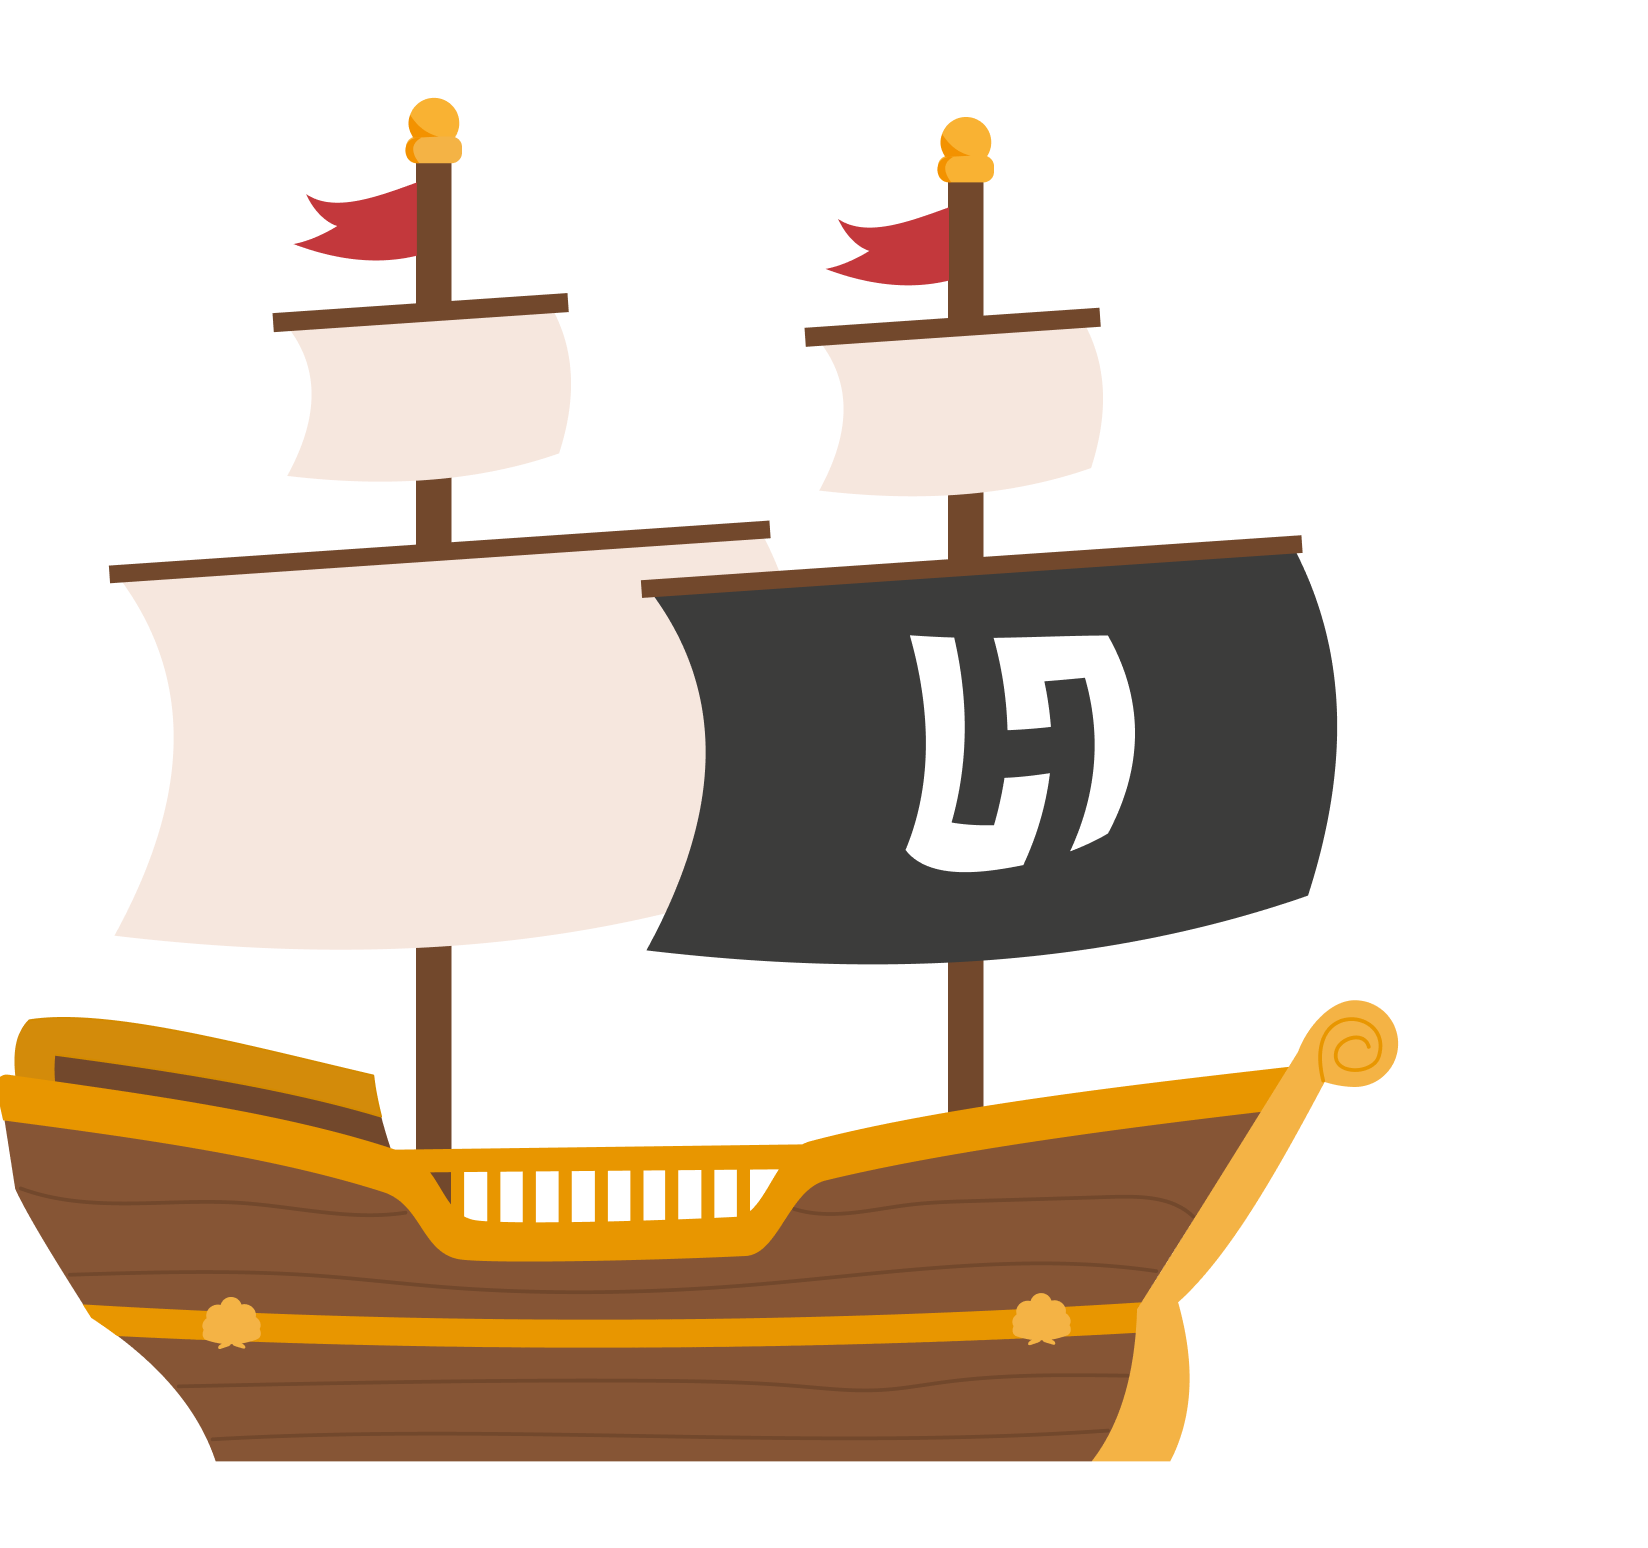
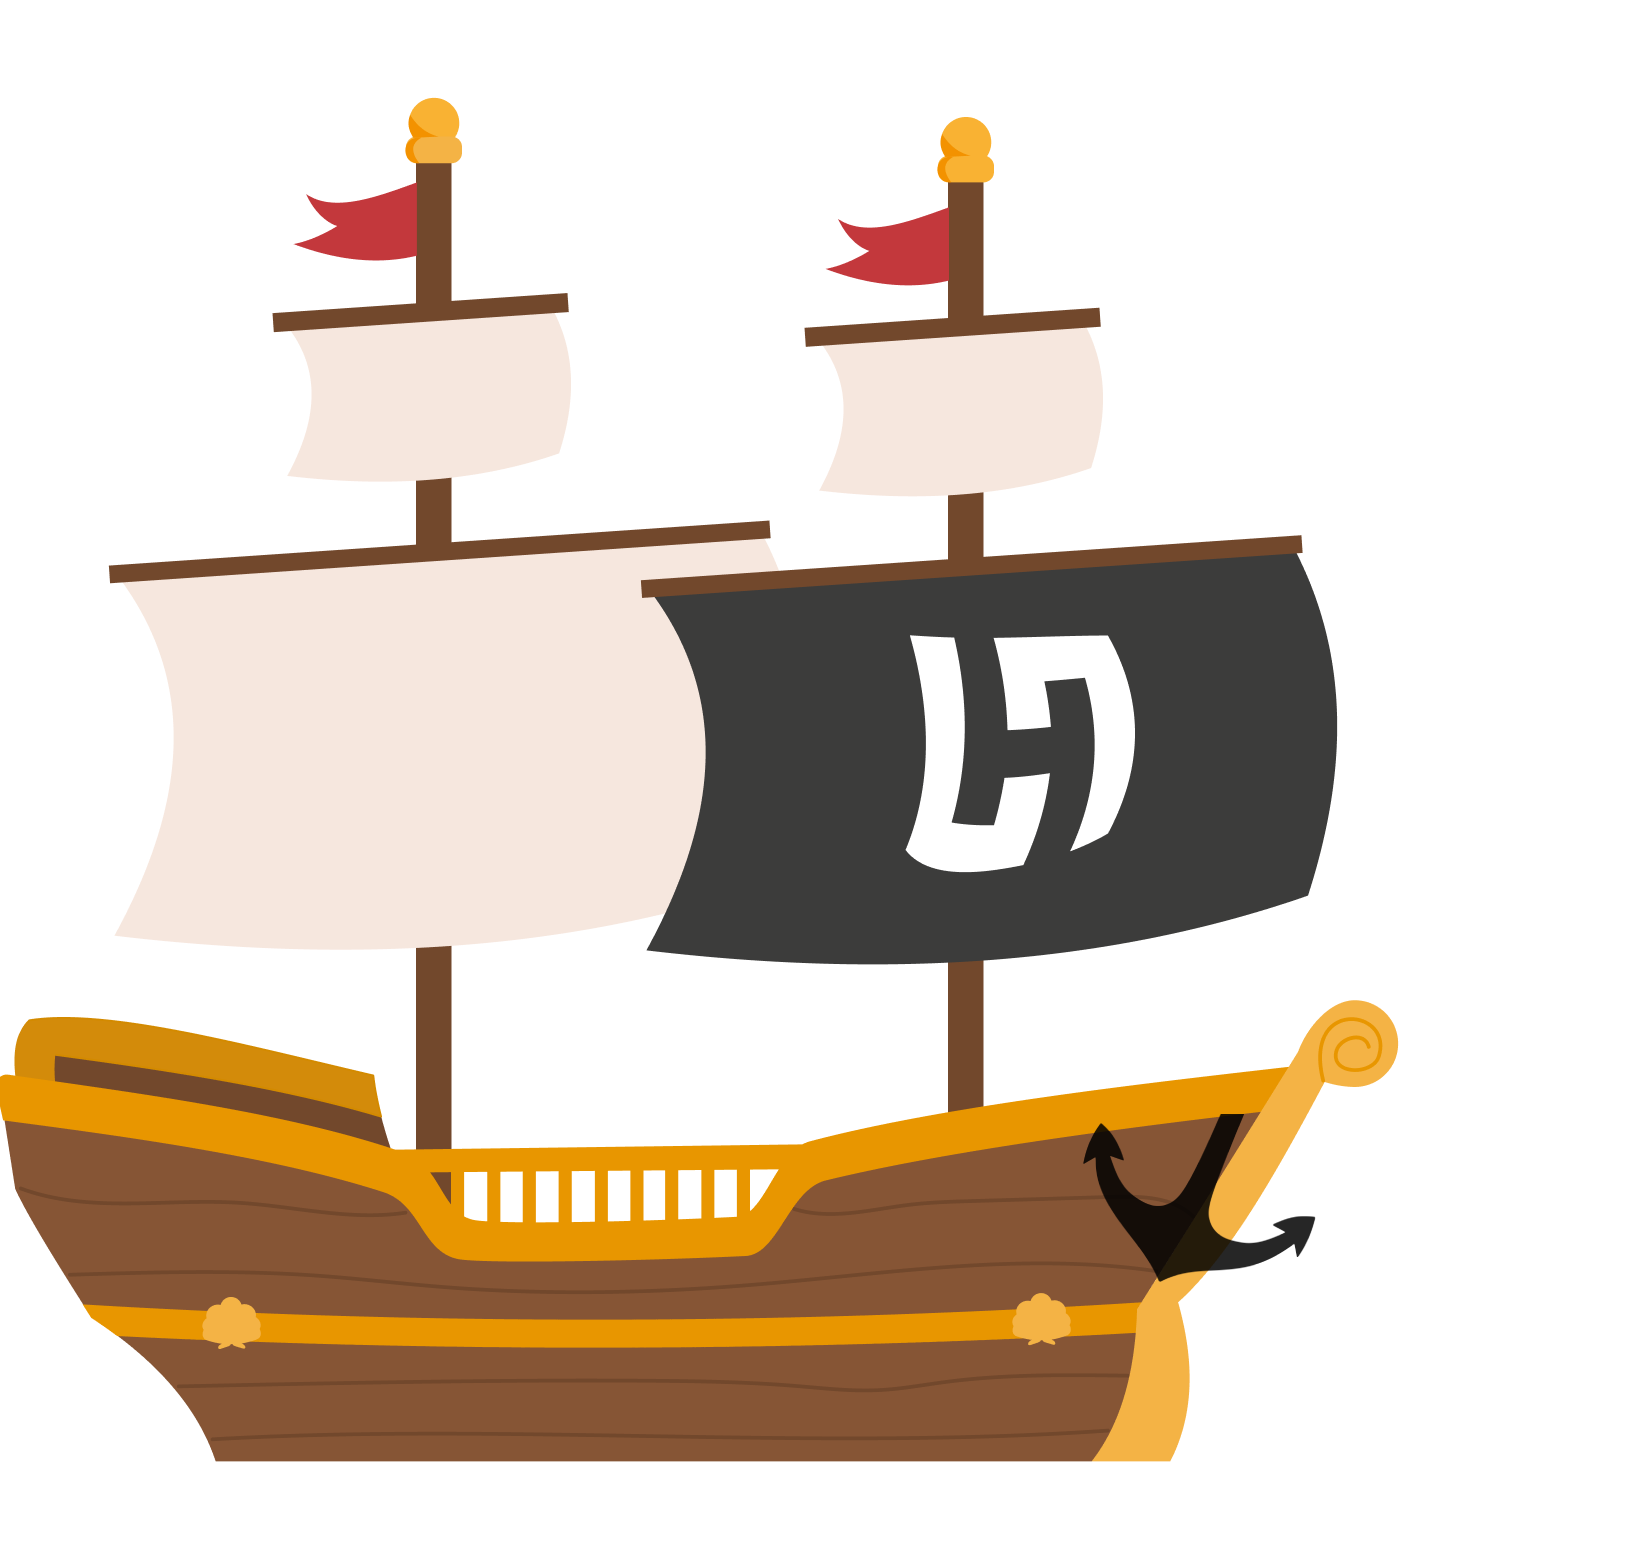
Animation without aleatory starts
It's almost done. Next idea to add is to include starts that would appear on the screen in random locations of the screen
? Needs to configure localStorage
? Needs to configure phone detection to avoid that animation on phone.
? Make button works

Changed region(s): [[0.6808, 0.7132, 0.8046, 0.8372], [0.6499, 0.7132, 0.6808, 0.7752]]

diff --git a/src/components/hackeps/Home/HeroSection/Hero2.js b/src/components/hackeps/Home/HeroSection/Hero2.js
@@ -2,9 +2,19 @@ import React, {useState, useEffect, useRef} from 'react'
 import gsap from 'gsap'
 import { useGSAP } from '@gsap/react'
 import burbujas from 'src/assets/img/burbujas.png'
+import anclaCadena from 'src/assets/img/cadenalarga.png'
+import sirena from 'src/assets/img/sirenapiedra.png'
+import logoHackeps from 'src/assets/img/logoHackeps2025.png'
+import cartell from 'src/assets/img/cartellPowered.png'
+import CountdownTimer from "src/components/hackeps/Home/Timer.js";
+import Button from "src/components/buttons/Button";
+import peix1 from 'src/assets/img/fish1.png'
+import peix2 from 'src/assets/img/fish2 invert.png'
+import peix3 from 'src/assets/img/fish3.png'
+import peix4 from 'src/assets/img/fish4 invert.png'
 
 
-const Hero2 = ({completed=false}) => {
+const Hero2 = ({completed=false, initialDate, finalDate, activeTimer}) => {
     const [ensureAnimations, setEnsureAnimations] = useState(true);
     const bubble1 = useRef(null);
     const bubble2 = useRef(null);
@@ -12,15 +22,172 @@ const Hero2 = ({completed=false}) => {
     const bubble4 = useRef(null);
     const bubble5 = useRef(null);
 
+    const fish1 = useRef(null);
+    const fish2 = useRef(null);
+    const fish3 = useRef(null);
+    const fish4 = useRef(null);
+    const fish5 = useRef(null);
+
+    const cadena = useRef(null);
+    const cartellet = useRef(null);
+    const sirenaPiedra = useRef(null);
+    const logoHackeps2025 = useRef(null);
+    const [startDate, setStartDate] = useState(initialDate);
+        const [endDate, setEndDate] = useState(finalDate);
+        const [timerActive, setTimerActive] = useState(activeTimer);
+        
+        useEffect(() => {
+            setStartDate(initialDate);
+            setEndDate(finalDate);
+            setTimerActive(activeTimer);
+            
+        }, [initialDate, finalDate, activeTimer]);
+
    useGSAP(() => {
         if (ensureAnimations) {
             const bubbles = [bubble1, bubble2, bubble3, bubble4, bubble5];
+            const fishes = [fish1, fish2, fish3, fish4, fish5];
+            const animateBubblesLoop = () => {
+                    // Cantidad de burbujas aleatoria entre 1 y 5
+                    const count = Math.floor(Math.random() * bubbles.length) + 1;
 
-            const animateBubbles = () => {
+                    // Elegir burbujas aleatorias sin repetir
+                    const selected = gsap.utils.shuffle([...bubbles]).slice(0, count);
+
+                    const tlBubbles = gsap.timeline({
+                        onComplete: () => {
+                            // Reset después de que terminen todas
+                            gsap.set(bubbles.map(b => b.current), { y: '50vh', scale: 1 });
+                            // Llama de nuevo para repetir
+                            if (ensureAnimations) animateBubblesLoop();
+                        }
+                    });
+
+                    selected.forEach((bubbleRef, i) => {
+                        tlBubbles.to(bubbleRef.current, {
+                            y: '-70vh',
+                            scale: gsap.utils.random(0.5, 1),
+                            duration: gsap.utils.random(6, 7),
+                            ease: 'linear',
+                            delay: gsap.utils.random(0, 1),
+                        }, i === 0 ? undefined : '<');
+                    });
+                };
+            
+            const animateFishLoop = () => {
+                // Cantidad de peces aleatoria entre 2 y 5 (mínimo 2)
+                const count = Math.floor(Math.random() * (fishes.length - 1)) + 2;
+
+                // Elegir peces aleatorios sin repetir
+                const selected = gsap.utils.shuffle([...fishes]).slice(0, count);
+
+                const tlFish = gsap.timeline({
+                    onComplete: () => {
+                        // Reset después de que terminen todas
+                        gsap.set(fishes.map(f => f.current), { x: '-10vw', scale: 1 });
+                        // Llama de nuevo para repetir
+                        if (ensureAnimations) animateFishLoop();
+                    }
+                });
+
+                selected.forEach((fishRef, i) => {
+                    // Animar de izquierda (-10vw) a derecha (110vw)
+                    gsap.set(fishRef.current, { x: '-10vw', y: 0, scale: gsap.utils.random(0.8, 1.2) });
+                    tlFish.to(fishRef.current, {
+                        x: '110vw',
+                        duration: gsap.utils.random(7, 10),
+                        ease: 'linear',
+                        delay: gsap.utils.random(0, 1),
+                    }, i === 0 ? undefined : '<');
+                });
+            }
+
+            const animateBubblesAndPhishLoop = () => {
+                if (ensureAnimations) { 
+                    animateBubblesLoop()
+                    animateFishLoop()
+                };
+            };
+
+            const animateElements = () => {
+                
                 const tl = gsap.timeline({
                     onComplete: () => {
-                        if (ensureAnimations) {
-                            animateBubbles();
+                        if (ensureAnimations && cadena.current) {
+                            gsap.to(cadena.current, {
+                                y: "-30%",
+                                duration: 2,
+                                ease: "power1.inOut",
+                                onComplete: () => {
+                                    gsap.to(cadena.current, {
+                                        y: "-5%",
+                                        rotation: 5,
+                                        duration: 15,
+                                        yoyo: false,
+                                        ease: "sine.inOut"
+                                        // No más animaciones ni reset, se queda en la posición final
+                                    });
+                                }
+                            });
+                            animateBubblesAndPhishLoop();
+                            if (cartellet.current) {
+                                // Subir el cartel al centro y hacer movimiento similar al ancla
+                                gsap.to(cartellet.current, {
+                                    delay: 1.4, // Pequeño delay para desincronizar con la cadena
+                                    y: "-120%",
+                                    duration: 2,
+                                    ease: "power1.inOut",
+                                    onComplete: () => {
+                                        // Oscilación en el centro
+                                        gsap.to(cartellet.current, {
+                                            y: "-130%",
+                                            rotation: 5,
+                                            duration: 2,
+                                            ease: "sine.inOut",
+                                            yoyo: true,
+                                            repeat: 1,
+                                            onComplete: () => {
+                                                // Subir y desvanecer
+                                                gsap.to(cartellet.current, {
+                                                    y: "-250%",
+                                                    duration: 3,
+                                                    ease: "sine.inOut",
+                                                    onComplete: () => {
+                                                        // Subir la sirena suavemente tras desaparecer el cartel
+                                                        const sirenaEl = sirenaPiedra.current;
+                                                        if (sirenaEl) {
+                                                            // Subir la sirena suavemente
+                                                            gsap.to(sirenaEl, {
+                                                                y: "-20%",
+                                                                duration: 3.5,
+                                                                ease: "sine.inOut"
+                                                            });
+                                                            // Cambiar opacidad del logo a 100 mientras la sirena sube
+                                                            if (logoHackeps2025.current) {
+                                                                // Asegúrate de quitar cualquier clase de Tailwind que fuerce opacity-0
+                                                                // En lugar de quitar la clase inmediatamente, espera a que la animación de opacidad comience
+                                                                // Asegúrate de que el logo esté oculto al principio
+                                                                gsap.set(logoHackeps2025.current, { opacity: 0 });
+                                                                // Quita la clase de Tailwind que fuerza opacity-0
+                                                                logoHackeps2025.current.classList.remove('opacity-0');
+                                                                // Anima la opacidad gradualmente a 1
+                                                                gsap.to(logoHackeps2025.current, {
+                                                                    opacity: 1,
+                                                                    duration: 3.5,
+                                                                    ease: "sine.inOut"
+                                                                });
+                                                            }
+                                                        }
+
+                                                    }
+                                                });
+                                            }
+                                        });
+                                    }
+                                });
+                            }
+
+
                         }
                     }
                 });
@@ -47,7 +214,7 @@ const Hero2 = ({completed=false}) => {
                 });
             };
 
-            animateBubbles();
+            animateElements();
         }
     }, [completed]);
 
@@ -62,7 +229,23 @@ const Hero2 = ({completed=false}) => {
         <div>
             <div className='bg-blueSea w-full h-[110vh] flex flex-row'>
                 <div className='col1 flex flex-row cartel w-1/3'>
-
+                    <img src={cartell} ref={cartellet} className="w-3/12 absolute bottom-0 left-[10%] transform translate-y-[70%]" alt="cartell" />
+                    <div className='opacity-0' ref={logoHackeps2025}>
+                        <img src={logoHackeps} className="w-[22%] absolute bottom-0 left-[20%] transform -translate-y-[80%] " alt="logoHackeps" />
+                        <div className='absolute top-[65%] left-[28%]'>
+                            <Button onClick={() => {}} className={"bg-red-500 text-white hover:bg-primaryHackeps duration-1 cursor-pointer"} outline>
+                                Descobreix més
+                            </Button>
+                        </div>
+                        
+                        <div className='countdown md:h-1/3 flex justify-start items-end absolute bottom-10 -left-[16%]'>
+                            <CountdownTimer
+                                startTime={startDate}
+                                endTime={endDate}
+                                timerActive={timerActive}
+                            />
+                    </div>
+                    </div>
                 </div>
                 <div className='col2 flex flex-row justify-end items-center align-middle w-1/3'>
                     <img src={burbujas} alt="Burbujas" className='w-28 transform translate-y-[50vh]' ref={bubble1} />
@@ -72,16 +255,19 @@ const Hero2 = ({completed=false}) => {
                     <img src={burbujas} alt="Burbujas" className='w-28 transform translate-y-[50vh]' ref={bubble5}/>    
                 </div>
                 <div className='col3 flex flex-row ancla w-1/3'>
-                    
+                    <img src={anclaCadena} ref={cadena} className={`w-2/12 absolute bottom-0 left-[80%] transform -translate-y-[80%] ${!ensureAnimations ? 'hidden' : 'block'}`} alt="ancla" />
+                    <img src={sirena} ref={sirenaPiedra} className="w-2/12 absolute bottom-0 left-[84%] transform translate-y-[70%]" alt="sirena"/>
                 </div>
 
             </div>
 
             <div className='peces'>
-
+                <img src={peix1} ref={fish1} className='absolute w-1/12 left-[-10%] top-[30%]'/>
+                <img src={peix2} ref={fish2} className='absolute w-1/12 left-[-10%] top-[0%]'/>
+                <img src={peix3} ref={fish3} className='absolute w-1/12 left-[-10%] top-[40%]'/>
+                <img src={peix4} ref={fish4} className='absolute w-1/12 left-[-10%] top-[20%]'/>
+                <img src={peix1} ref={fish5} className='absolute w-1/12 left-[-10%] top-[50%]'/>
             </div>
-
-
         </div>
     )
 }

diff --git a/src/pages/hackeps/Animation.js b/src/pages/hackeps/Animation.js
@@ -6,7 +6,7 @@ import gsap from 'gsap'
 import { useGSAP } from '@gsap/react'
 import 'src/components/hackeps/Waiting/Waiting.css'
 
-const Animation = () => {
+const Animation = ({initialDate, finalDate, activeTimer}) => {
     const div0 = useRef(null);
     const div1 = useRef(null);
     const div2 = useRef(null);
@@ -35,11 +35,9 @@ const Animation = () => {
                     <div className="w-full h-full bg-repeat-x bg-bottom animate-olas-scroll wavesSeaAnim bg-contain"></div>
                 </div>
             </div>
-            <Hero2 completed={div2Status} />
+            <Hero2 completed={div2Status} initialDate={initialDate} finalDate={finalDate} activeTimer={activeTimer} />
         </div>
-        <div ref={div3}>
-            <HeroSection />
-        </div>
+       
     </div>
   )
 }

diff --git a/src/pages/hackeps/Home.js b/src/pages/hackeps/Home.js
@@ -100,7 +100,11 @@ const Home = () => {
   }else {
     return (
       <div>
-        <Animation />
+        <Animation 
+          initialDate={startDate}
+          finalDate={endDate}
+          activeTimer={timerActive}
+          />
       </div>
     );
   }
